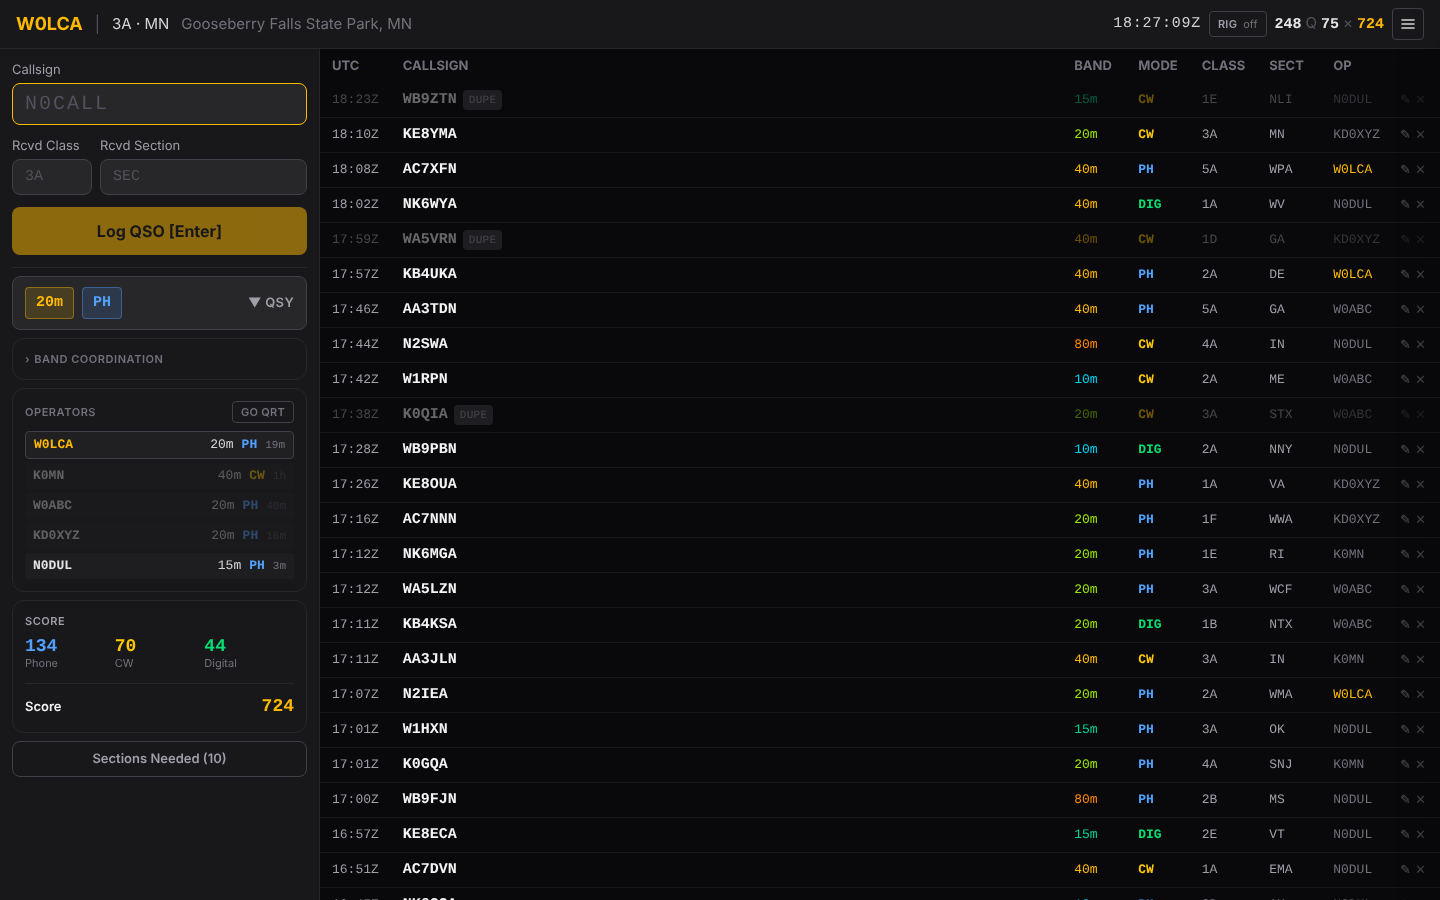
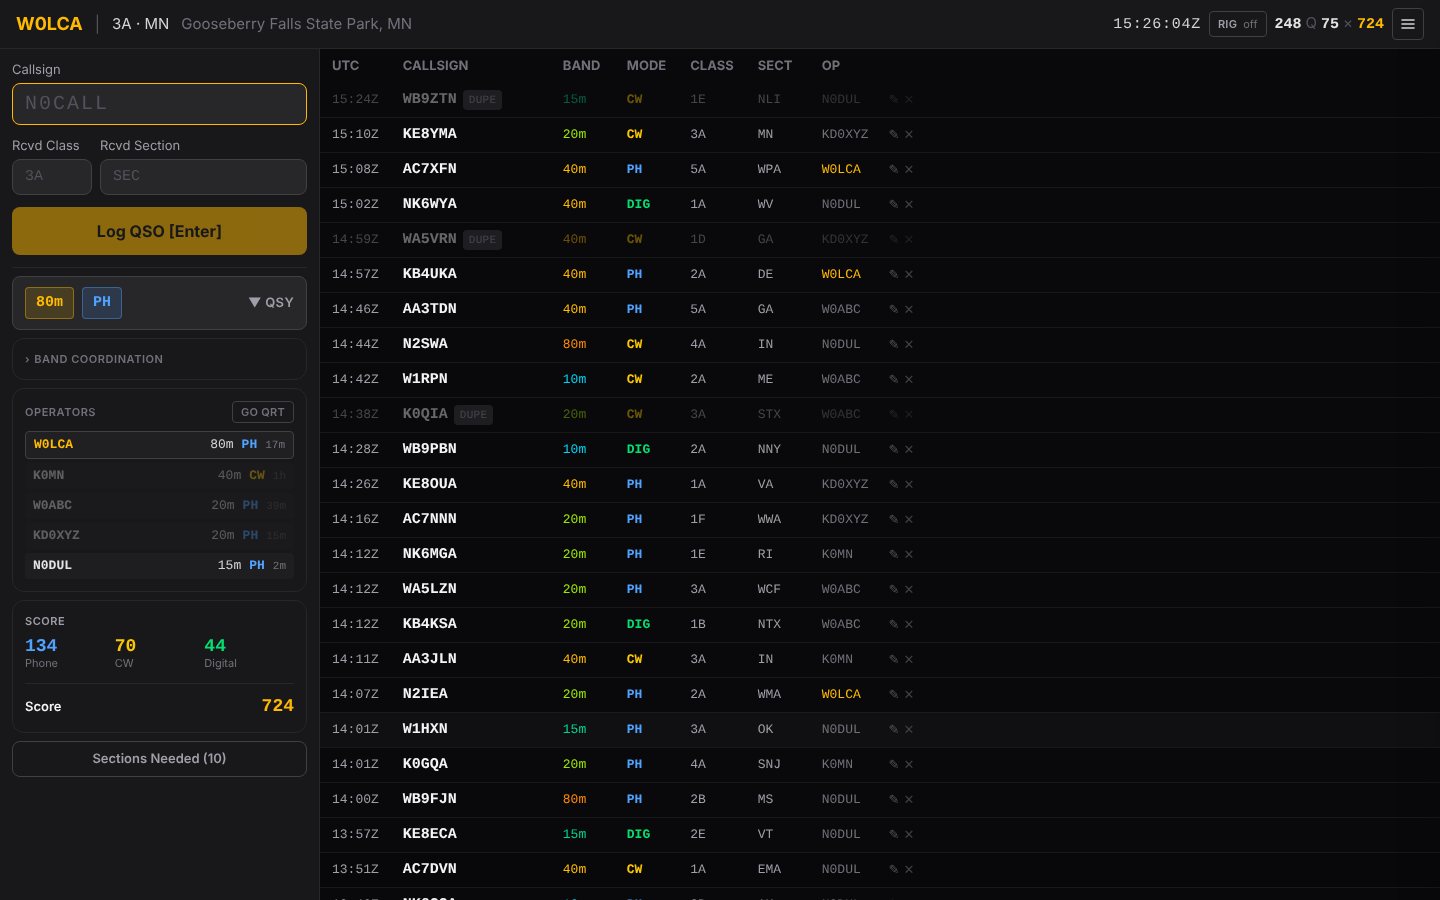
Keep the contact list together on a wide monitor
Every column of the logger's contact list had a width except the callsign,
so on a large monitor the callsign column took all the slack and the band,
mode, class and section sat at the far edge of the screen. From md up the
callsign now has a width and an empty last column takes the slack; phones
keep the old layout.

On a phone the UTC clock drew on top of the club call: the status row does
not shrink and the call refused to. The clock is hidden below sm and the call
truncates rather than overlapping.

Re-captured the logging screenshot and the three GIFs against a fresh seed.

Claude-Session: https://claude.ai/code/session_01FnNbg7k59bWyt7bkBWTrmA

diff --git a/components/QSOTable.tsx b/components/QSOTable.tsx
@@ -247,17 +247,25 @@ function QSOTable({ qsos, onDelete, onUpdate, currentOpCall, eventId, eventType 
       )}
 
       <div className="h-full overflow-auto">
+        {/* Every column but the callsign used to have a width, so on a wide
+            monitor the callsign column took all the slack and the band sat
+            a screen-width away from the call it belongs to. From md up the
+            callsign gets a width of its own and an empty last column takes
+            the slack instead, so a row reads left to right with the space
+            after it. A phone has no slack to give away, so it keeps the
+            old layout: no spacer, and the callsign sized by its content. */}
         <table className="w-full text-sm">
           <thead className="sticky top-0 bg-zinc-950 text-xs text-zinc-500 uppercase light:bg-white light:text-zinc-400">
             <tr>
               <th className="px-3 py-2 text-left w-16">UTC</th>
-              <th className="px-3 py-2 text-left">Callsign</th>
+              <th className="px-3 py-2 text-left md:w-40">Callsign</th>
               <th className="px-3 py-2 text-left w-16">Band</th>
               <th className="px-3 py-2 text-left w-12">Mode</th>
               <th className="px-3 py-2 text-left w-16">Class</th>
               <th className="px-3 py-2 text-left w-16">Sect</th>
               <th className="px-3 py-2 text-left w-12">Op</th>
               <th className="px-2 py-2 w-12"></th>
+              <th aria-hidden="true" className="hidden md:table-cell" />
             </tr>
           </thead>
           <tbody>
@@ -332,11 +340,12 @@ function QSOTable({ qsos, onDelete, onUpdate, currentOpCall, eventId, eventType 
                     </button>
                   </div>
                 </td>
+                <td aria-hidden="true" className="hidden md:table-cell" />
               </tr>
             ))}
             {qsos.length === 0 && (
               <tr>
-                <td colSpan={8} className="px-3 py-8 text-center text-zinc-600 light:text-zinc-400">
+                <td colSpan={9} className="px-3 py-8 text-center text-zinc-600 light:text-zinc-400">
                   No QSOs logged yet. Start logging!
                 </td>
               </tr>

diff --git a/components/LoggingClient.tsx b/components/LoggingClient.tsx
@@ -357,12 +357,15 @@ export default function LoggingClient({
 
   return (
     <div data-night={nightMode ? 'true' : undefined} className="night-scope flex h-screen flex-col overflow-hidden bg-zinc-950 light:bg-white">
-      <header className="flex items-center justify-between border-b border-zinc-800 bg-zinc-900 px-4 py-2 flex-shrink-0 light:border-zinc-200 light:bg-zinc-50">
+      <header className="flex items-center justify-between gap-3 border-b border-zinc-800 bg-zinc-900 px-4 py-2 flex-shrink-0 light:border-zinc-200 light:bg-zinc-50">
         <div className="flex items-center gap-3 min-w-0">
           {/* The call actually being signed. A GOTA operator working under a
               different callsign needs that on screen — it is what they say on
               the air, and it is what their contacts export as. */}
-          <span className="font-bold text-amber-400 text-lg shrink-0">
+          {/* Truncates rather than holding its width: the status row to the
+              right does not shrink, and a call that refused to either was
+              drawn underneath the clock on a phone. */}
+          <span className="font-bold text-amber-400 text-lg truncate">
             {isGota && event.gota_call ? event.gota_call : event.club_call}
           </span>
           {isGota && event.gota_call && (
@@ -387,7 +390,12 @@ export default function LoggingClient({
               without acting on. Everything actionable moved into the drawer,
               which is why this row no longer has to choose what to drop at
               each breakpoint. */}
-          <UTCClock />
+          {/* Not on a phone: the call, the rig button, the score and the menu
+              already fill a 360px row, and with the clock as well the call
+              was drawn underneath it. The phone's own clock is in view, every
+              contact is stamped by the server, and the list shows each one in
+              UTC. */}
+          <span className="hidden sm:inline"><UTCClock /></span>
 
           {/* Rig control is a button, and it is here whether or not a radio is
               attached. It used to be a status chip that appeared only once

diff --git a/docs/changelog.md b/docs/changelog.md
@@ -23,6 +23,22 @@ only run events.
 
 ---
 
+## 2026-11-20
+
+### Fixed
+
+- **The contact list on a wide monitor** `Display` — Band, mode, class and
+  section now sit next to the callsign instead of at the far edge of the
+  screen. On a large monitor the callsign column used to take all the spare
+  width, so each contact read across most of the screen; the spare width
+  now falls after the row. Phones are unchanged.
+  Docs: [Operating → The entry form](operating.md#the-entry-form)
+- **The club call in the logger header on a phone** `Display` — The UTC clock
+  no longer draws on top of the club call on a narrow screen. The clock is not
+  shown below tablet width, where the header had no room for both; every
+  contact is still stamped in UTC by the server and listed in UTC.
+  Docs: [Operating → Reading the header](operating.md#reading-the-header)
+
 ## 2026-11-19
 
 ### Fixed

diff --git a/docs/operating.md b/docs/operating.md
@@ -231,6 +231,7 @@ toggle and persists across sessions.
 
 | Element | Meaning |
 |---|---|
+| `15:26:04Z` | The time in UTC. Not shown on a phone, where the row has no room for it beside your club call |
 | `147 Q` | Non-duplicate QSOs |
 | `31 ×` | Sections worked (contest events only) |
 | Amber number | Score before bonuses (contest events only) |
